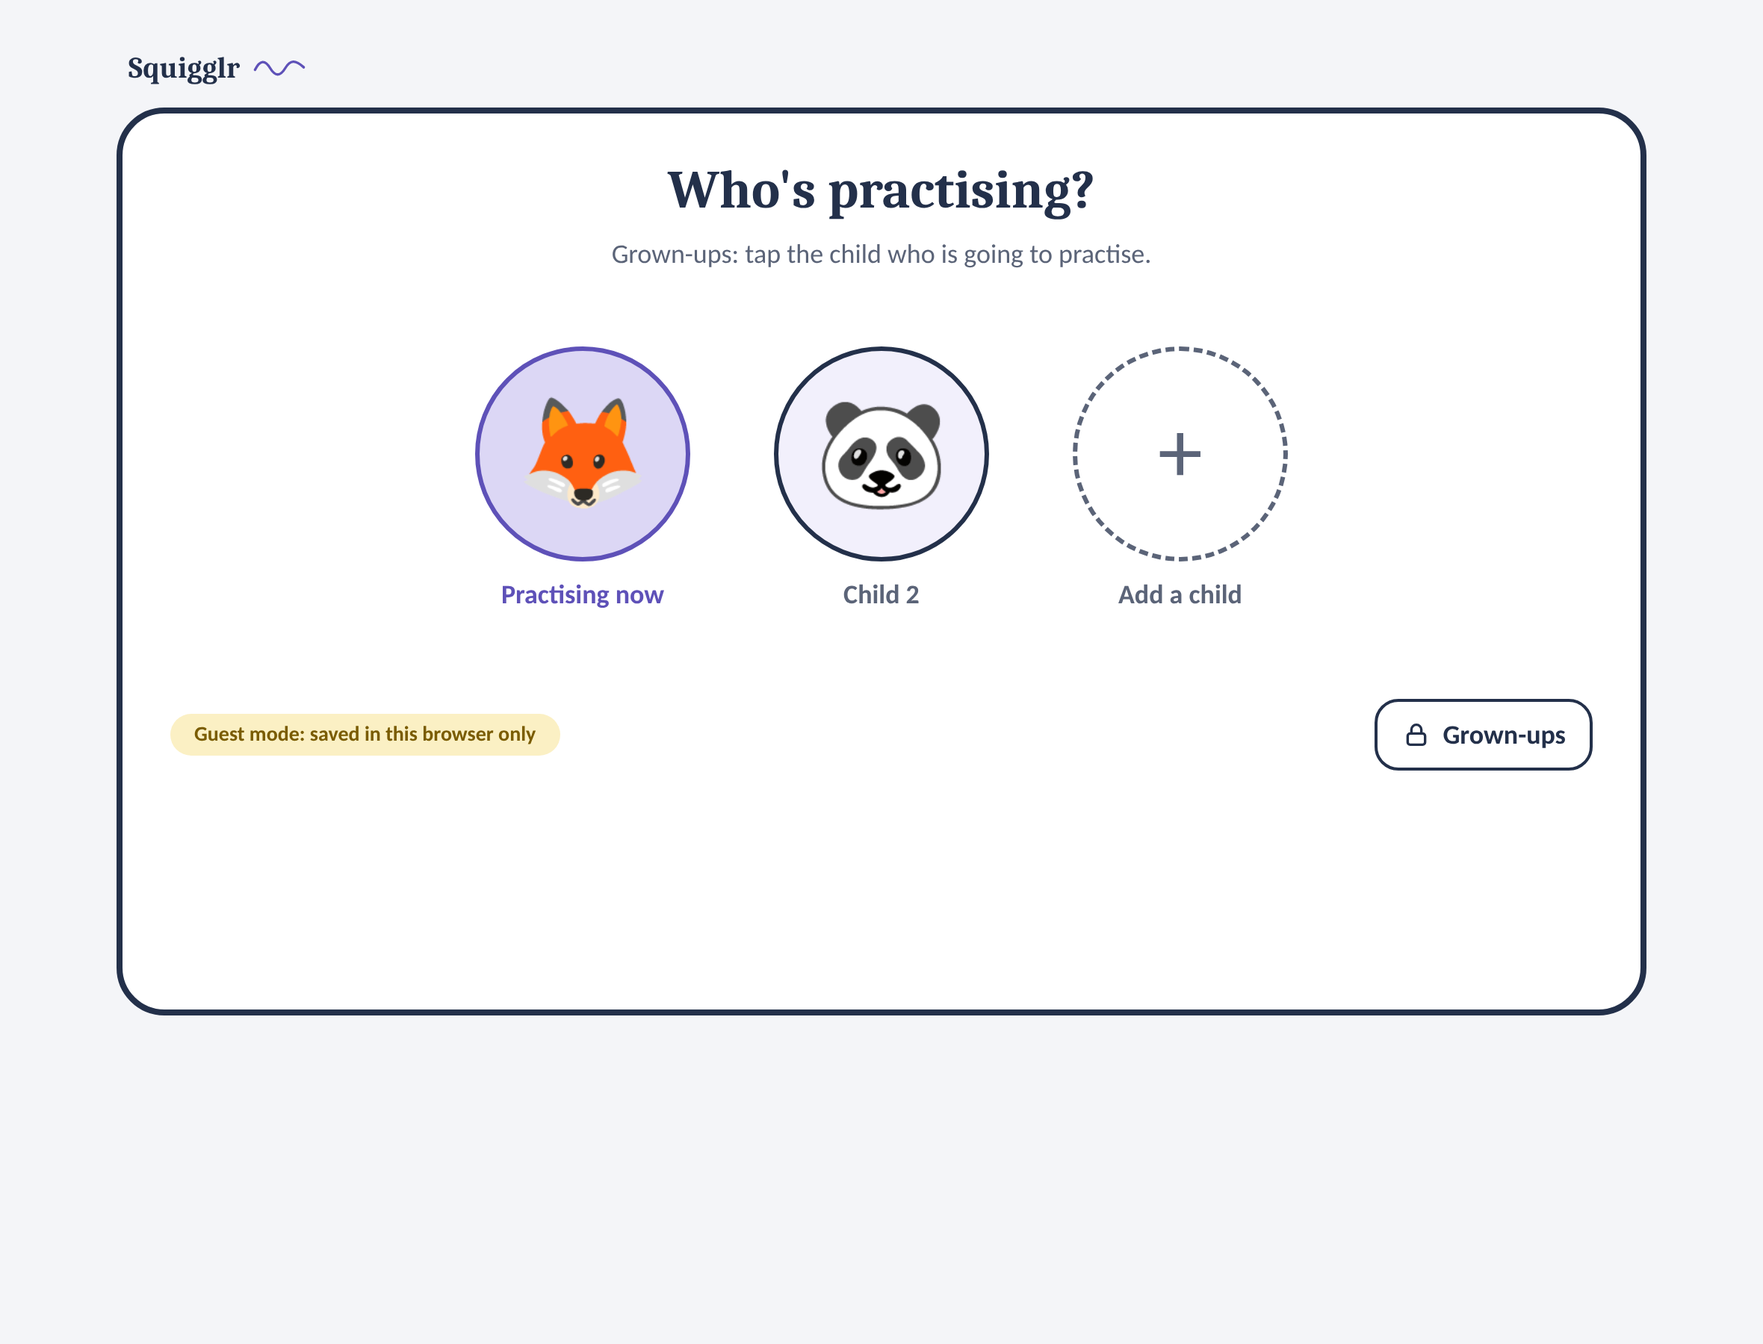
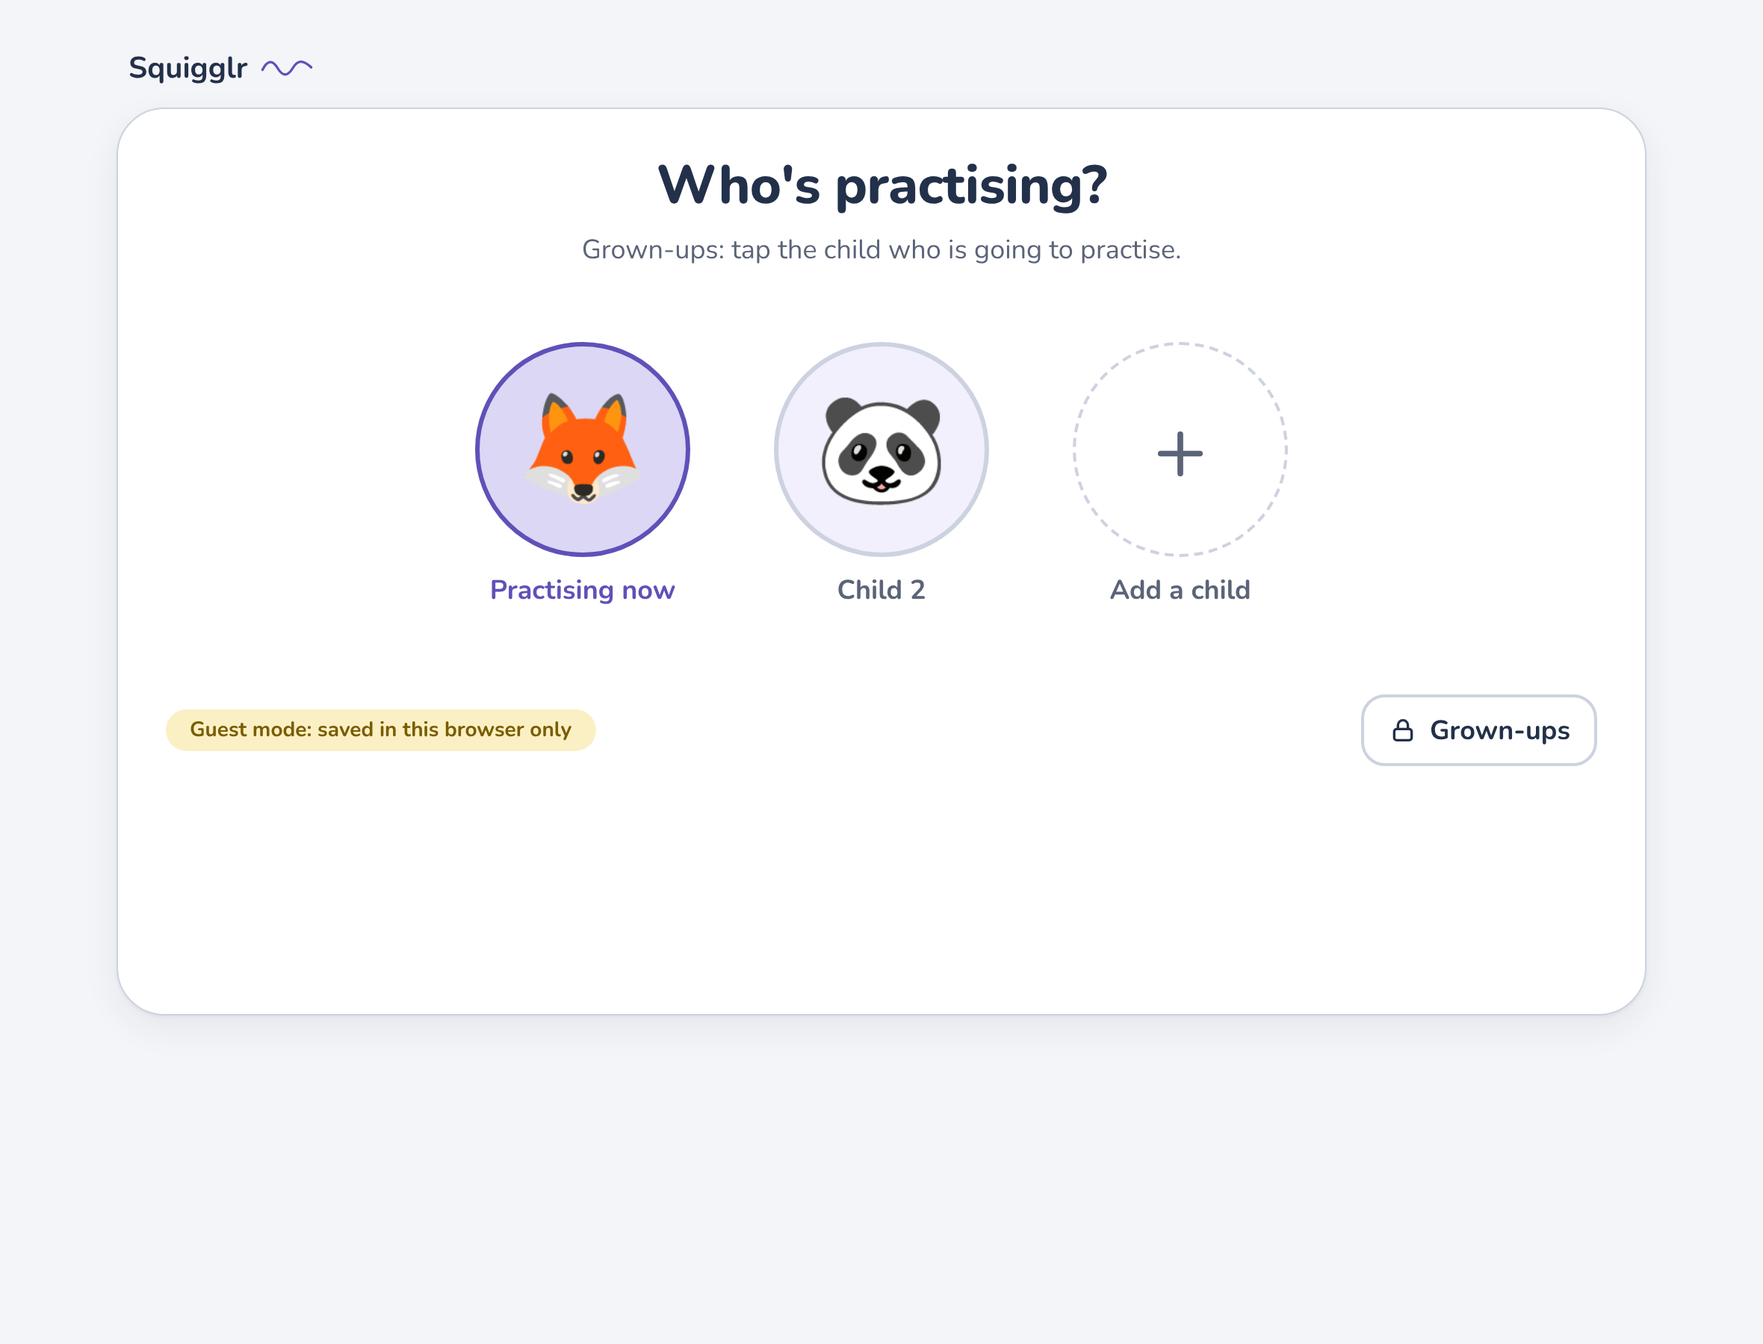
style: one rounded font and soft-edged cards
Replace the serif headings and heavy navy outlines with a single rounded
sans-serif, light card edges and a soft shadow, for a calmer look. The
system's rounded face is used on an iPad or a Mac, and Nunito elsewhere.
The colours, layouts and behaviour are unchanged.

diff --git a/src/app/lesson/[id]/page.tsx b/src/app/lesson/[id]/page.tsx
@@ -216,7 +216,7 @@ export default function LessonPage() {
   };
 
   const childButton =
-    "flex h-16 w-16 items-center justify-center rounded-2xl border-[3px] border-ink bg-white hover:bg-lavender disabled:border-line disabled:text-line";
+    "flex h-16 w-16 items-center justify-center rounded-2xl border-2 border-edge bg-white hover:bg-lavender disabled:border-line disabled:text-line";
 
   return (
     <>
@@ -230,7 +230,7 @@ export default function LessonPage() {
             />
             {/* With no guide, a small picture reminds the child what to draw. */}
             {running && c.stage === "I" && (
-              <div className="mt-3 flex h-20 w-20 items-center justify-center rounded-2xl border-[3px] border-ink bg-white">
+              <div className="mt-3 flex h-20 w-20 items-center justify-center rounded-2xl border-2 border-edge bg-white">
                 <LessonIcon figure={lesson.figure} className="h-14 w-14" />
               </div>
             )}
@@ -267,7 +267,7 @@ export default function LessonPage() {
                   refresh();
                 }}
                 aria-label="Start drawing"
-                className="absolute bottom-5 left-1/2 flex h-24 w-24 -translate-x-1/2 items-center justify-center rounded-full border-[3px] border-ink bg-green text-white"
+                className="absolute bottom-5 left-1/2 flex h-24 w-24 -translate-x-1/2 items-center justify-center rounded-full border-2 border-edge bg-green text-white"
               >
                 <PlayIcon className="h-12 w-12" />
               </button>
@@ -285,7 +285,7 @@ export default function LessonPage() {
           <div className="flex min-w-0 items-center gap-3" aria-live="polite">
             <Helper className="h-20 w-[4.25rem] shrink-0" />
             <div>
-              <p className="rounded-[2rem] border-[3px] border-ink bg-white px-6 py-3 text-2xl font-bold">{bubble}</p>
+              <p className="rounded-[2rem] border-2 border-edge bg-white px-6 py-3 text-2xl font-bold">{bubble}</p>
               {hints.length > 0 && (
                 <p className="mt-1 pl-6 text-lg font-bold text-butter-ink">
                   {hints
@@ -327,7 +327,7 @@ export default function LessonPage() {
           role="dialog"
           aria-label="Go back a step?"
         >
-          <div className="w-full max-w-2xl rounded-3xl border-4 border-ink bg-white p-6 sm:p-8">
+          <div className="w-full max-w-2xl rounded-3xl border border-edge shadow-card bg-white p-6 sm:p-8">
             <p className="flex items-center gap-2 text-xl font-bold">
               <LockIcon className="h-6 w-6" />
               Grown-ups
@@ -348,21 +348,21 @@ export default function LessonPage() {
             <div className="mt-3 flex flex-wrap gap-3">
               <button
                 onClick={() => answer(true, "T")}
-                className="rounded-2xl border-[3px] border-ink bg-white px-5 py-3 text-xl font-bold hover:bg-lavender"
+                className="rounded-2xl border-2 border-edge bg-white px-5 py-3 text-xl font-bold hover:bg-lavender"
               >
                 Yes, go back to step 1
               </button>
               {c.stage === "I" && (
                 <button
                   onClick={() => answer(true, "E")}
-                  className="rounded-2xl border-[3px] border-ink bg-white px-5 py-3 text-xl font-bold hover:bg-lavender"
+                  className="rounded-2xl border-2 border-edge bg-white px-5 py-3 text-xl font-bold hover:bg-lavender"
                 >
                   Yes, go back to step 2
                 </button>
               )}
               <button
                 onClick={() => answer(false)}
-                className="rounded-2xl border-2 border-ink bg-white px-5 py-3 text-xl font-bold hover:bg-lavender"
+                className="rounded-2xl border-2 border-edge bg-white px-5 py-3 text-xl font-bold hover:bg-lavender"
               >
                 No, keep trying step {STEP[c.stage].number}
               </button>
@@ -430,9 +430,9 @@ function StepTile({
   return (
     <div className="text-center">
       <div
-        className={`relative h-28 w-28 rounded-2xl bg-white ${strong ? "border-4 border-brand" : "border-2 border-ink"}`}
+        className={`relative h-28 w-28 rounded-2xl bg-white ${strong ? "border-4 border-brand" : "border-2 border-edge"}`}
       >
-        <span className="absolute top-1.5 left-1.5 flex h-7 w-7 items-center justify-center rounded-full border-2 border-ink bg-white text-sm font-bold">
+        <span className="absolute top-1.5 left-1.5 flex h-7 w-7 items-center justify-center rounded-full border-2 border-edge bg-white text-sm font-bold">
           {STEP[stage].number}
         </span>
         <StageGuide figure={figure} stage={stage} className="h-full w-full p-3" />

diff --git a/src/app/lessons/[id]/page.tsx b/src/app/lessons/[id]/page.tsx
@@ -66,7 +66,7 @@ function Stepper({
         aria-label={`Less: ${r.label}`}
         disabled={values[name] <= r.min}
         onClick={() => set(name, values[name] - 1)}
-        className={`${box} rounded-xl border-2 border-ink bg-white font-bold hover:bg-lavender disabled:border-line disabled:text-line`}
+        className={`${box} rounded-xl border-2 border-edge bg-white font-bold hover:bg-lavender disabled:border-line disabled:text-line`}
       >
         −
       </button>
@@ -78,7 +78,7 @@ function Stepper({
         aria-label={`More: ${r.label}`}
         disabled={values[name] >= r.max}
         onClick={() => set(name, values[name] + 1)}
-        className={`${box} rounded-xl border-2 border-ink bg-white font-bold hover:bg-lavender disabled:border-line disabled:text-line`}
+        className={`${box} rounded-xl border-2 border-edge bg-white font-bold hover:bg-lavender disabled:border-line disabled:text-line`}
       >
         +
       </button>
@@ -125,7 +125,7 @@ export default function LessonReady() {
     <Screen title={<>{learner.avatar}&apos;s lesson is ready</>} back="/lessons" avatar={learner.avatar}>
       <div className="mt-6 grid gap-8 md:grid-cols-[16rem_1fr]">
         <div>
-          <div className="mx-auto flex h-44 w-44 items-center justify-center rounded-3xl border-[3px] border-ink bg-white">
+          <div className="mx-auto flex h-44 w-44 items-center justify-center rounded-3xl border-2 border-edge bg-white">
             <LessonIcon figure={lesson.figure} className="h-32 w-32" />
           </div>
           <p className="mt-2 text-center text-2xl font-bold">{lesson.name} lesson</p>
@@ -162,10 +162,10 @@ export default function LessonReady() {
                     aria-checked={selected}
                     onClick={() => setStart(stage)}
                     className={`relative rounded-2xl bg-white px-2 pt-2 pb-1 text-center ${
-                      selected ? "border-4 border-brand bg-lavender" : "border-2 border-ink"
+                      selected ? "border-4 border-brand bg-lavender" : "border-2 border-edge"
                     }`}
                   >
-                    <span className="absolute top-2 left-2 flex h-7 w-7 items-center justify-center rounded-full border-2 border-ink bg-white text-sm font-bold">
+                    <span className="absolute top-2 left-2 flex h-7 w-7 items-center justify-center rounded-full border-2 border-edge bg-white text-sm font-bold">
                       {i + 1}
                     </span>
                     {selected && (
@@ -202,7 +202,7 @@ export default function LessonReady() {
                 type="button"
                 onClick={() => setInfo(true)}
                 aria-label="About neatness"
-                className="h-11 w-11 rounded-full border-2 border-ink bg-white font-serif text-xl font-bold hover:bg-lavender"
+                className="h-11 w-11 rounded-full border-2 border-edge bg-white text-xl font-bold hover:bg-lavender"
               >
                 i
               </button>
@@ -217,7 +217,7 @@ export default function LessonReady() {
                       aria-checked={selected}
                       onClick={() => set("stagePass", mark)}
                       className={`rounded-full border-2 px-5 py-2 text-xl font-bold ${
-                        selected ? "border-brand bg-brand text-white" : "border-ink bg-white hover:bg-lavender"
+                        selected ? "border-brand bg-brand text-white" : "border-edge bg-white hover:bg-lavender"
                       }`}
                     >
                       {name}
@@ -260,7 +260,7 @@ export default function LessonReady() {
               <button
                 type="button"
                 onClick={() => setValues(settings.defaults())}
-                className="rounded-2xl border-2 border-ink bg-white px-4 py-2 font-bold hover:bg-lavender"
+                className="rounded-2xl border-2 border-edge bg-white px-4 py-2 font-bold hover:bg-lavender"
               >
                 Back to the recommended settings
               </button>

diff --git a/src/app/globals.css b/src/app/globals.css
@@ -1,18 +1,17 @@
 @import "tailwindcss";
 
 /*
- * The colours and fonts follow the team's A-Sense presentation: navy serif
- * headings, a plain sans-serif body, and soft lavender, mint, peach and
- * butter panels with a purple accent. The layout of the screens follows the
- * team's lo-fi prototype.
+ * The look: one rounded sans-serif for everything, thin line icons, white
+ * cards with soft edges and a light shadow, and plenty of space, in the
+ * manner of a calm note-taking app. The colours are those of the team's
+ * A-Sense presentation. The layout of the screens follows the lo-fi
+ * prototype.
  *
- * The slides use Cambria and Calibri. Those are used where the device has
- * them; elsewhere Caladea and Carlito, open fonts with the same letter
- * widths, are loaded in their place.
+ * On an iPad or a Mac the font is the system's own rounded face. Elsewhere
+ * Nunito, an open rounded font, is loaded in its place.
  */
 @theme {
-  --font-serif: Cambria, Caladea, Georgia, "Times New Roman", serif;
-  --font-sans: Calibri, Carlito, "Segoe UI", system-ui, sans-serif;
+  --font-sans: ui-rounded, "SF Pro Rounded", Nunito, "Segoe UI", system-ui, sans-serif;
 
   --color-ink: #23304a;
   --color-muted: #5b6478;
@@ -20,6 +19,9 @@
   --color-stroke: #3a4fa0;
   --color-panel: #f4f5f8;
   --color-line: #e1e4ec;
+  /* The edge of a card or a button: light, but clear against white. */
+  --color-edge: #cdd2e0;
+  --shadow-card: 0 1px 2px rgb(35 48 74 / 0.06), 0 8px 24px rgb(35 48 74 / 0.07);
   --color-lavender: #f2f0fc;
   --color-lavender-deep: #dcd7f5;
   --color-mint: #edf7f2;
@@ -39,7 +41,8 @@ body {
 
 h1,
 h2 {
-  font-family: var(--font-serif);
+  font-weight: 800;
+  letter-spacing: -0.01em;
 }
 
 /* On a tablet: no grey flash on a tap, no wait for a double tap, and no

diff --git a/src/app/records/page.tsx b/src/app/records/page.tsx
@@ -78,7 +78,7 @@ export default function PracticeRecords() {
               onClick={() => setShown(learner)}
               aria-label={`Show child ${i + 1}`}
               aria-pressed={learner.id === shown?.id}
-              className={`rounded-2xl p-1 ${learner.id === shown?.id ? "border-2 border-ink" : "border-2 border-transparent"}`}
+              className={`rounded-2xl p-1 ${learner.id === shown?.id ? "border-2 border-edge" : "border-2 border-transparent"}`}
             >
               <Avatar avatar={learner.avatar} size="sm" selected={learner.id === shown?.id} />
             </button>
@@ -87,7 +87,7 @@ export default function PracticeRecords() {
       }
     >
       <p className="mt-6 flex items-center gap-3 rounded-2xl bg-panel px-5 py-4 text-xl">
-        <span className="flex h-8 w-8 shrink-0 items-center justify-center rounded-full border-2 border-ink font-serif font-bold">
+        <span className="flex h-8 w-8 shrink-0 items-center justify-center rounded-full border-2 border-edge font-bold">
           i
         </span>
         This shows practice, not an assessment.
@@ -100,7 +100,7 @@ export default function PracticeRecords() {
         {lessons.map(({ record, attempts }) => {
           const lesson = catalogue.lesson(record.lesson);
           return (
-            <section key={record.id} className="mt-4 rounded-3xl border-[3px] border-ink p-5">
+            <section key={record.id} className="mt-4 rounded-3xl border-2 border-edge p-5">
               <h2 className="font-sans text-lg font-bold">
                 {lesson.name} lesson
                 <span className="ml-2 text-sm font-normal text-muted">

diff --git a/src/components/NeatnessInfo.tsx b/src/components/NeatnessInfo.tsx
@@ -17,7 +17,7 @@ export const NEATNESS = [
 export function NeatnessInfo({ figure, avatar, onClose }: { figure: Figure; avatar: string; onClose: () => void }) {
   return (
     <div className="fixed inset-0 z-40 flex items-center justify-center bg-ink/40 p-4" role="dialog" aria-label="Neatness">
-      <div className="max-h-full w-full max-w-3xl overflow-auto rounded-3xl border-4 border-ink bg-white p-6 sm:p-8">
+      <div className="max-h-full w-full max-w-3xl overflow-auto rounded-3xl border border-edge shadow-card bg-white p-6 sm:p-8">
         <h2 className="text-3xl font-bold">Neatness</h2>
         <p className="mt-2 text-lg">
           How neat {avatar}&apos;s drawing has to be before the lesson moves on to the next step. Every part of the
@@ -41,7 +41,7 @@ export function NeatnessInfo({ figure, avatar, onClose }: { figure: Figure; avat
         <div className="mt-6 flex justify-end">
           <button
             onClick={onClose}
-            className="rounded-2xl border-[3px] border-ink bg-white px-8 py-2 text-xl font-bold hover:bg-lavender"
+            className="rounded-2xl border-2 border-edge bg-white px-8 py-2 text-xl font-bold hover:bg-lavender"
           >
             Got it
           </button>

diff --git a/src/app/page.tsx b/src/app/page.tsx
@@ -65,7 +65,7 @@ export default function WhoIsPractising() {
           onClick={() => setAdding((a) => !a)}
           className="flex flex-col items-center gap-2 rounded-3xl p-2 hover:bg-lavender"
         >
-          <span className="flex h-36 w-36 items-center justify-center rounded-full border-[3px] border-dashed border-muted text-6xl text-muted">
+          <span className="flex h-36 w-36 items-center justify-center rounded-full border-2 border-dashed border-edge text-6xl text-muted">
             +
           </span>
           <span className="text-lg font-bold text-muted">Add a child</span>
@@ -81,7 +81,7 @@ export default function WhoIsPractising() {
                 key={avatar}
                 onClick={() => add(avatar)}
                 aria-label={`Picture ${avatar}`}
-                className="h-16 w-16 rounded-full border-2 border-ink bg-white text-4xl hover:bg-mint-deep"
+                className="h-16 w-16 rounded-full border-2 border-edge bg-white text-4xl hover:bg-mint-deep"
               >
                 {avatar}
               </button>

diff --git a/src/components/Screen.tsx b/src/components/Screen.tsx
@@ -8,7 +8,7 @@ import { Squiggle } from "./Squiggle";
 // child who is practising on the right.
 
 export const buttonClass =
-  "inline-flex items-center gap-2 rounded-2xl border-2 border-ink bg-white px-4 py-2 text-lg font-bold text-ink hover:bg-lavender";
+  "inline-flex items-center gap-2 rounded-2xl border-2 border-edge bg-white px-4 py-2 text-lg font-bold text-ink hover:bg-lavender";
 
 export function Frame({
   children,
@@ -23,12 +23,12 @@ export function Frame({
   return (
     <div className="mx-auto max-w-5xl">
       {brand && (
-        <div className="mb-3 flex items-center gap-2 px-2 font-serif text-xl font-bold">
+        <div className="mb-3 flex items-center gap-2 px-2 text-xl font-bold">
           Squigglr
           <Squiggle className="w-9" />
         </div>
       )}
-      <div className={`relative rounded-[2rem] border-4 border-ink bg-white p-5 sm:p-8 ${className}`}>{children}</div>
+      <div className={`relative rounded-[2rem] border border-edge shadow-card bg-white p-5 sm:p-8 ${className}`}>{children}</div>
     </div>
   );
 }

diff --git a/src/components/AdultCheck.tsx b/src/components/AdultCheck.tsx
@@ -37,7 +37,7 @@ export function useAdultCheck() {
   const dialog = question && (
     <div className="fixed inset-0 z-50 flex items-center justify-center bg-ink/40 p-4">
       <form
-        className="w-full max-w-sm rounded-3xl border-4 border-ink bg-white p-6"
+        className="w-full max-w-sm rounded-3xl border border-edge shadow-card bg-white p-6"
         onSubmit={(e) => {
           e.preventDefault();
           if (Number(answer) === question.a + question.b) close(true);
@@ -57,7 +57,7 @@ export function useAdultCheck() {
             aria-label="Answer"
             value={answer}
             onChange={(e) => setAnswer(e.target.value)}
-            className="ml-3 w-24 rounded-xl border-2 border-ink px-3 py-1"
+            className="ml-3 w-24 rounded-xl border-2 border-edge px-3 py-1"
           />
         </label>
         {wrong && <p className="mt-2 font-bold text-coral">That is not it. Try again.</p>}

diff --git a/src/app/grown-ups/page.tsx b/src/app/grown-ups/page.tsx
@@ -30,13 +30,13 @@ export default function GrownUps() {
           <Link
             key={href}
             href={href}
-            className="flex items-center gap-6 rounded-3xl border-[3px] border-ink bg-white p-8 hover:bg-lavender"
+            className="flex items-center gap-6 rounded-3xl border-2 border-edge bg-white p-8 hover:bg-lavender"
           >
             <span className={`flex h-20 w-20 shrink-0 items-center justify-center rounded-full ${tint}`}>
               <Icon className="h-10 w-10" />
             </span>
             <span>
-              <span className="block font-serif text-3xl font-bold">{title}</span>
+              <span className="block text-3xl font-bold">{title}</span>
               <span className="mt-1 block text-xl text-muted">{text}</span>
             </span>
           </Link>

diff --git a/src/app/lessons/page.tsx b/src/app/lessons/page.tsx
@@ -32,7 +32,7 @@ export default function PickALesson() {
             key={lesson.id}
             href={`/lessons/${lesson.id}`}
             aria-label={`${lesson.name} lesson`}
-            className="flex h-60 w-60 flex-col items-center justify-center rounded-3xl border-[3px] border-ink bg-white hover:bg-lavender"
+            className="flex h-60 w-60 flex-col items-center justify-center rounded-3xl border-2 border-edge bg-white hover:bg-lavender"
           >
             <LessonIcon figure={lesson.figure} className="h-40 w-40" />
             <span className="mt-2 text-lg font-bold text-muted">{lesson.name}</span>

diff --git a/src/components/StrokePreview.tsx b/src/components/StrokePreview.tsx
@@ -16,7 +16,7 @@ export function StrokePreview({
   size?: keyof typeof SIZES;
 }) {
   return (
-    <svg viewBox="0 0 1000 1000" className={`shrink-0 rounded-2xl border-2 border-ink bg-white ${SIZES[size]}`}>
+    <svg viewBox="0 0 1000 1000" className={`shrink-0 rounded-2xl border-2 border-edge bg-white ${SIZES[size]}`}>
       {figure.parts.map((part, i) => (
         <path key={`f${i}`} d={d(part)} fill="none" stroke="#dcd7f5" strokeWidth={30} strokeLinecap="round" />
       ))}

diff --git a/src/components/Avatar.tsx b/src/components/Avatar.tsx
@@ -17,7 +17,7 @@ export function Avatar({
   return (
     <span
       className={`flex shrink-0 items-center justify-center rounded-full border-[3px] leading-none ${SIZES[size]} ${
-        selected ? "border-brand bg-lavender-deep" : "border-ink bg-lavender"
+        selected ? "border-brand bg-lavender-deep" : "border-edge bg-lavender"
       }`}
     >
       {avatar}
